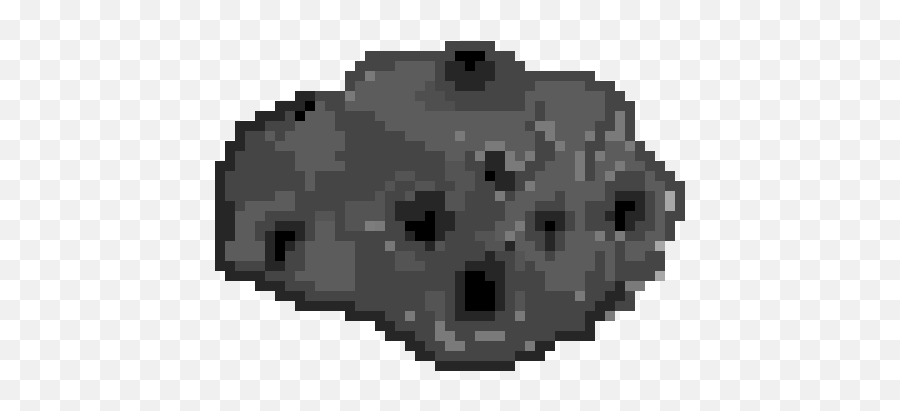
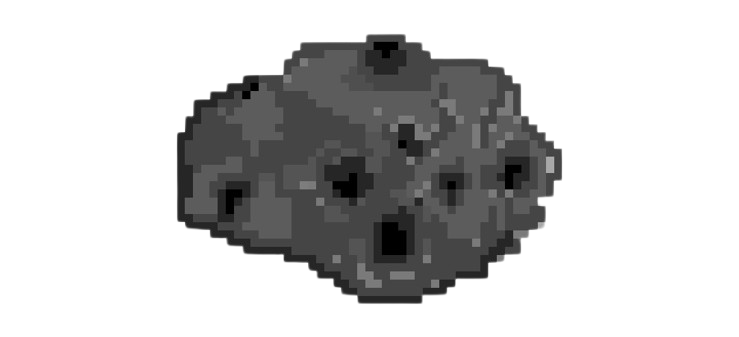
Feat: Modularize asteroids & input, add spinning, sizes, and image-based asteroids

diff --git a/asteroids.py b/asteroids.py
@@ -3,7 +3,10 @@ import sys
 import random
 import math
 import threading
-import queue
+import queue # Keep queue for now, might be needed by other parts if game expands
+from src.input_handler import input_queue, shared_input_state, input_lock, stop_input_thread_event, input_processing_thread_func
+from src.game_entities import Asteroid as GameEntityAsteroid # Alias to avoid confusion if any local 'Asteroid' var exists
+
 
 # Initialize Pygame
 pygame.init()
@@ -35,41 +38,8 @@ except pygame.error as e:
     print(f"Error loading background image: {e}")
     background_image = None # Fallback if image loading fails
 
-# Threading setup for input
-input_queue = queue.Queue()
-shared_input_state = {
-    'rotate_left': False,
-    'rotate_right': False,
-    'thrust_on': False,
-    'shoot_request': False
-}
-input_lock = threading.Lock()
-stop_input_thread_event = threading.Event()
-
-# Input Processing Thread Function
-def input_processing_thread_func():
-    print("Input processing thread started.")
-    while not stop_input_thread_event.is_set():
-        try:
-            command, key_state = input_queue.get(timeout=0.1) # Timeout to allow checking stop_event
-            with input_lock:
-                if command == 'rotate_left':
-                    shared_input_state['rotate_left'] = key_state
-                elif command == 'rotate_right':
-                    shared_input_state['rotate_right'] = key_state
-                elif command == 'thrust_on':
-                    shared_input_state['thrust_on'] = key_state
-                elif command == 'shoot_request': # This is an event, not a continuous state
-                    if key_state: # True on KEYDOWN
-                        shared_input_state['shoot_request'] = True 
-                    # No 'else' needed as shoot_request is reset by Player.update()
-            input_queue.task_done()
-        except queue.Empty:
-            continue # No input, loop back and check stop_event
-        except Exception as e:
-            print(f"Error in input thread: {e}") # Basic error handling
-            break # Exit thread on unexpected error
-    print("Input processing thread stopped.")
+# Asteroid control semaphore
+asteroid_semaphore = threading.Semaphore(4)
 
 # Game clock
 clock = pygame.time.Clock()
@@ -185,33 +155,6 @@ class Player(pygame.sprite.Sprite):
         return bullet
         # return None # If fire rate limit is active and not met
 
-# --- Asteroid Class ---
-class Asteroid(pygame.sprite.Sprite):
-    def __init__(self):
-        super().__init__()
-        self.size = random.randint(30, 70) # Increased random size for asteroid
-        self.image = pygame.Surface([self.size, self.size], pygame.SRCALPHA)
-        pygame.draw.circle(self.image, GREY, (self.size // 2, self.size // 2), self.size // 2)
-        self.rect = self.image.get_rect()
-        self.rect.x = random.randrange(0, SCREEN_WIDTH - self.rect.width)
-        self.rect.y = random.randrange(-150, -50) # Start above the screen
-        self.speed_y = random.randint(1, 3) # Adjusted speed slightly for larger asteroids
-        self.speed_x = random.randint(-1, 1) # Slight horizontal drift
-
-    def update(self):
-        self.rect.y += self.speed_y
-        self.rect.x += self.speed_x
-
-        # Screen wrapping logic
-        if self.rect.left > SCREEN_WIDTH:
-            self.rect.right = 0
-        if self.rect.right < 0:
-            self.rect.left = SCREEN_WIDTH
-        if self.rect.top > SCREEN_HEIGHT:
-            self.rect.bottom = 0
-        if self.rect.bottom < 0:
-            self.rect.top = SCREEN_HEIGHT
-
 # --- Bullet Class ---
 class Bullet(pygame.sprite.Sprite):
     def __init__(self, x, y, angle):
@@ -241,8 +184,8 @@ class Bullet(pygame.sprite.Sprite):
 # --- Game Variables (to be expanded) ---
 score = 0
 game_paused = False
-# asteroid_spawn_timer = 0 # Asteroid spawning disabled
-# ASTEROID_SPAWN_RATE = 60 # Asteroid spawning disabled
+asteroid_spawn_timer = 0
+ASTEROID_SPAWN_RATE = 60 # Spawn a new asteroid (if space available) every second at 60 FPS
 
 
 
@@ -270,6 +213,22 @@ def game_loop():
     # Start the input processing thread
     input_thread = threading.Thread(target=input_processing_thread_func, daemon=True)
     input_thread.start()
+
+    # Initial asteroid spawning - using new GameEntityAsteroid
+    for _ in range(4):
+        if asteroid_semaphore.acquire(blocking=False):
+            start_x = random.randrange(0, SCREEN_WIDTH)
+            start_y = random.randrange(-150, -50) # Start above screen
+            new_asteroid = GameEntityAsteroid(position=(start_x, start_y), size_type='LG', 
+                                              all_sprites_ref=all_sprites, asteroids_group_ref=asteroids_group, 
+                                              asteroid_semaphore_ref=asteroid_semaphore, 
+                                              screen_width=SCREEN_WIDTH, screen_height=SCREEN_HEIGHT)
+            all_sprites.add(new_asteroid)
+            asteroids_group.add(new_asteroid)
+            # print(f"Initial LG asteroid spawned. Semaphore count: {asteroid_semaphore._value}") # Debug
+        else:
+            print("Error: Could not acquire semaphore for initial LG asteroid spawn.")
+            break # Stop trying if semaphore is unexpectedly unavailable
 
 
 
@@ -307,18 +266,31 @@ def game_loop():
             # --- Game Logic (to be added) ---
             # Star movement logic removed as we are using a static background image now
             
-            # Update all sprites (player)
-            all_sprites.update() # This will call update on player and bullets
-            # asteroids_group.update() # Asteroid updates disabled
+            # Update all sprites (player, bullets, asteroids)
+            all_sprites.update() 
+            # asteroids_group.update() is implicitly called by all_sprites.update() if asteroids are in all_sprites
 
-            # Spawn new asteroids (disabled)
-            # global asteroid_spawn_timer
-            # asteroid_spawn_timer += 1
-            # if asteroid_spawn_timer >= ASTEROID_SPAWN_RATE:
-            #     asteroid_spawn_timer = 0
-            #     new_asteroid = Asteroid()
-            #     all_sprites.add(new_asteroid)
-            #     asteroids_group.add(new_asteroid)
+            # Spawn new asteroids periodically
+            global asteroid_spawn_timer
+            asteroid_spawn_timer += 1
+            if asteroid_spawn_timer >= ASTEROID_SPAWN_RATE:
+                asteroid_spawn_timer = 0
+                if asteroid_semaphore.acquire(blocking=False):
+                    start_x = random.choice([random.randrange(-100, -50), random.randrange(SCREEN_WIDTH + 50, SCREEN_WIDTH + 100)])
+                    start_y = random.randrange(0, SCREEN_HEIGHT)
+                    # Alternate starting from top/bottom if preferred for periodic spawns
+                    # start_x = random.randrange(0, SCREEN_WIDTH)
+                    # start_y = random.choice([random.randrange(-100, -50), random.randrange(SCREEN_HEIGHT + 50, SCREEN_HEIGHT + 100)])
+                    
+                    new_asteroid = GameEntityAsteroid(position=(start_x, start_y), size_type='LG', 
+                                                      all_sprites_ref=all_sprites, asteroids_group_ref=asteroids_group, 
+                                                      asteroid_semaphore_ref=asteroid_semaphore, 
+                                                      screen_width=SCREEN_WIDTH, screen_height=SCREEN_HEIGHT)
+                    all_sprites.add(new_asteroid)
+                    asteroids_group.add(new_asteroid)
+                    # print(f"Periodic LG asteroid spawned. Semaphore count: {asteroid_semaphore._value}") # Debug
+                # else:
+                    # print(f"Max asteroids (LG) reached, not spawning. Semaphore count: {asteroid_semaphore._value}") # Debug
 
 
         # --- Drawing ---

diff --git a/src/game_entities.py b/src/game_entities.py
@@ -1,0 +1,148 @@
+import pygame
+import random
+import math
+
+# Define asteroid sizes and their properties
+ASTEROID_SIZES = {
+    'LG': {'scale': 0.2, 'score': 20, 'speed_multiplier': 1.0, 'radius': 10},
+    'MD': {'scale': 0.1, 'score': 50, 'speed_multiplier': 1.3, 'radius': 5},
+    'SM': {'scale': 0.06, 'score': 100, 'speed_multiplier': 1.6, 'radius': 3}
+}
+
+# Global variable to store the loaded asteroid image to avoid reloading
+_asteroid_original_image = None
+
+def load_asteroid_image():
+    global _asteroid_original_image
+    if _asteroid_original_image is None:
+        try:
+            _asteroid_original_image = pygame.image.load('static/images/asteroid.png').convert_alpha()
+        except pygame.error as e:
+            print(f"Error loading asteroid image: {e}")
+            # Create a fallback circular surface if image fails to load
+            _asteroid_original_image = pygame.Surface((100, 100), pygame.SRCALPHA)
+            pygame.draw.circle(_asteroid_original_image, (128, 128, 128), (50, 50), 50)
+    return _asteroid_original_image
+
+class Asteroid(pygame.sprite.Sprite):
+    def __init__(self, position, size_type, all_sprites_ref, asteroids_group_ref, asteroid_semaphore_ref, screen_width, screen_height):
+        super().__init__()
+        
+        self.size_type = size_type
+        self.properties = ASTEROID_SIZES[size_type]
+        self.original_image = load_asteroid_image() # Load base image (or get from cache)
+        
+        # Scale image
+        scaled_width = int(self.original_image.get_width() * self.properties['scale'])
+        scaled_height = int(self.original_image.get_height() * self.properties['scale'])
+        self.base_image = pygame.transform.scale(self.original_image, (scaled_width, scaled_height)) # Store the scaled image before rotation
+        self.image = self.base_image.copy() # Initial image is a copy of the base image
+        self.rect = self.image.get_rect(center=position)
+        self.radius = self.properties['radius'] # For collision detection
+
+        # Rotation attributes
+        self.angle = random.uniform(0, 360) # Visual rotation angle
+        self.rotation_speed = random.uniform(-2.5, 2.5) # Degrees per frame
+        while -0.5 < self.rotation_speed < 0.5: # Ensure it's not too slow or static
+            self.rotation_speed = random.uniform(-2.5, 2.5)
+
+        # Movement
+        movement_angle_deg = random.uniform(0, 360) # Angle for initial movement direction
+        movement_angle_rad = math.radians(movement_angle_deg)
+        base_speed = random.uniform(1, 2.5) * self.properties['speed_multiplier']
+        self.vx = base_speed * math.cos(movement_angle_rad)
+        self.vy = base_speed * math.sin(movement_angle_rad)
+        
+        self.all_sprites_ref = all_sprites_ref
+        self.asteroids_group_ref = asteroids_group_ref
+        self.asteroid_semaphore_ref = asteroid_semaphore_ref
+        self.SCREEN_WIDTH = screen_width
+        self.SCREEN_HEIGHT = screen_height
+
+    def update(self):
+        # Rotation
+        self.angle = (self.angle + self.rotation_speed) % 360
+        self.image = pygame.transform.rotate(self.base_image, self.angle)
+        self.rect = self.image.get_rect(center=self.rect.center)
+
+        # Movement
+        self.rect.x += self.vx
+        self.rect.y += self.vy
+
+        # Screen wrapping (simple version for now)
+        if self.rect.left > self.SCREEN_WIDTH:
+            self.rect.right = 0
+        elif self.rect.right < 0:
+            self.rect.left = self.SCREEN_WIDTH
+        
+        if self.rect.top > self.SCREEN_HEIGHT:
+            # Instead of wrapping, if it goes off bottom, it should be destroyed and release semaphore
+            self.kill_asteroid(spawn_children=False)
+        elif self.rect.bottom < 0:
+            # If it goes off top, also destroy and release (less common with initial spawn)
+            self.kill_asteroid(spawn_children=False)
+
+    def kill_asteroid(self, spawn_children=True):
+        # Placeholder for breaking into smaller asteroids
+        if spawn_children:
+            if self.size_type == 'LG':
+                self._spawn_children('MD', 2) # Spawn 2 medium asteroids
+            elif self.size_type == 'MD':
+                self._spawn_children('SM', 2) # Spawn 2 small asteroids
+        
+        self.kill() # Remove from sprite groups
+        self.asteroid_semaphore_ref.release()
+        # print(f"Asteroid ({self.size_type}) killed. Semaphore released. Count: {self.asteroid_semaphore_ref._value}")
+
+    def _spawn_children(self, child_size_type, count):
+        for _ in range(count):
+            if self.asteroid_semaphore_ref.acquire(blocking=False):
+                new_pos = (self.rect.centerx + random.randint(-10,10), self.rect.centery + random.randint(-10,10))
+                child_asteroid = Asteroid(new_pos, child_size_type, 
+                                          self.all_sprites_ref, self.asteroids_group_ref, 
+                                          self.asteroid_semaphore_ref, self.SCREEN_WIDTH, self.SCREEN_HEIGHT)
+                self.all_sprites_ref.add(child_asteroid)
+                self.asteroids_group_ref.add(child_asteroid)
+            else:
+                # print(f"Could not acquire semaphore for child asteroid ({child_size_type})")
+                break # Stop trying to spawn more children if semaphore limit is hit
+
+# Example of how you might call this (for testing, not for final game loop)
+if __name__ == '__main__':
+    pygame.init()
+    screen_width_test, screen_height_test = 800, 600
+    screen = pygame.display.set_mode((screen_width_test, screen_height_test))
+    pygame.display.set_caption("Game Entities Test")
+    
+    all_sprites = pygame.sprite.Group()
+    asteroids = pygame.sprite.Group()
+    # Dummy semaphore for testing
+    import threading
+    test_semaphore = threading.Semaphore(10) 
+
+    # Try loading the image
+    img = load_asteroid_image()
+    if img:
+        print("Asteroid image loaded successfully for testing.")
+
+    # Create a large asteroid
+    if test_semaphore.acquire(blocking=False):
+        asteroid_lg = Asteroid((screen_width_test // 2, screen_height_test // 2), 'LG', all_sprites, asteroids, test_semaphore, screen_width_test, screen_height_test)
+        all_sprites.add(asteroid_lg)
+        asteroids.add(asteroid_lg)
+    
+    running = True
+    clock = pygame.time.Clock()
+    while running:
+        for event in pygame.event.get():
+            if event.type == pygame.QUIT:
+                running = False
+        
+        all_sprites.update()
+        
+        screen.fill((0,0,0))
+        all_sprites.draw(screen)
+        pygame.display.flip()
+        
+        clock.tick(60)
+    pygame.quit()

diff --git a/src/input_handler.py b/src/input_handler.py
@@ -1,0 +1,38 @@
+import threading
+import queue
+
+# Threading setup for input
+input_queue = queue.Queue()
+shared_input_state = {
+    'rotate_left': False,
+    'rotate_right': False,
+    'thrust_on': False,
+    'shoot_request': False
+}
+input_lock = threading.Lock()
+stop_input_thread_event = threading.Event()
+
+# Input Processing Thread Function
+def input_processing_thread_func():
+    print("Input processing thread started.")
+    while not stop_input_thread_event.is_set():
+        try:
+            command, key_state = input_queue.get(timeout=0.1) # Timeout to allow checking stop_event
+            with input_lock:
+                if command == 'rotate_left':
+                    shared_input_state['rotate_left'] = key_state
+                elif command == 'rotate_right':
+                    shared_input_state['rotate_right'] = key_state
+                elif command == 'thrust_on':
+                    shared_input_state['thrust_on'] = key_state
+                elif command == 'shoot_request': # This is an event, not a continuous state
+                    if key_state: # True on KEYDOWN
+                        shared_input_state['shoot_request'] = True 
+                    # No 'else' needed as shoot_request is reset by Player.update()
+            input_queue.task_done()
+        except queue.Empty:
+            continue # No input, loop back and check stop_event
+        except Exception as e:
+            print(f"Error in input thread: {e}") # Basic error handling
+            break # Exit thread on unexpected error
+    print("Input processing thread stopped.")
